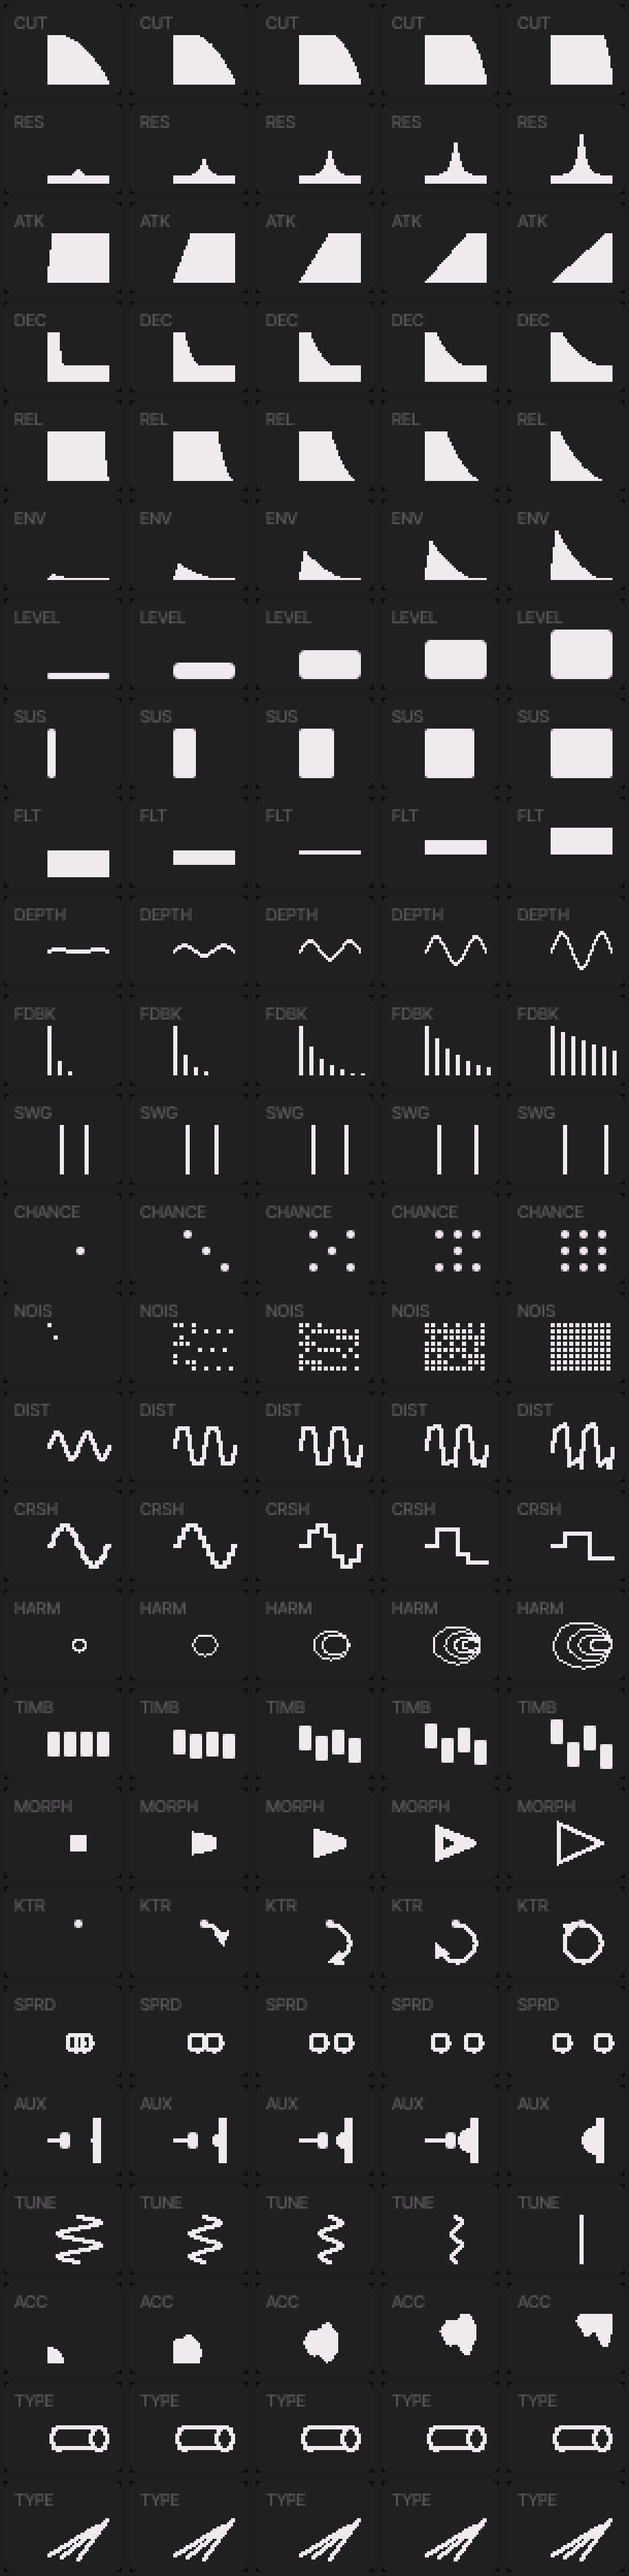
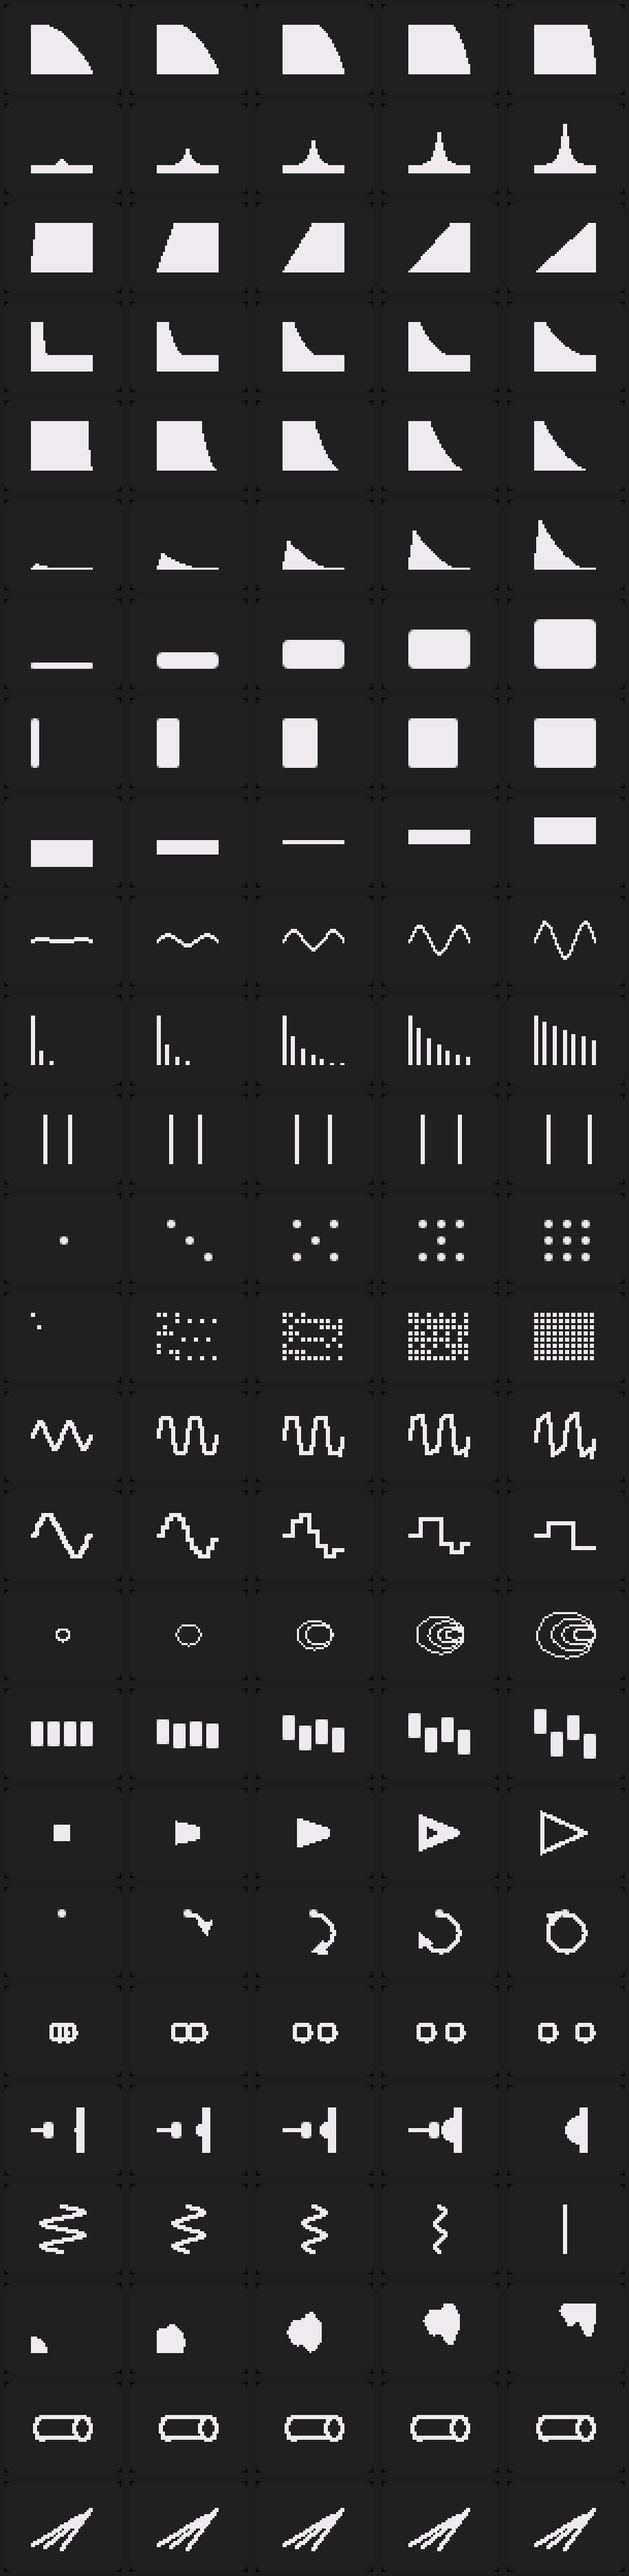
Cards: a shape's card without its label, the shape in the middle
A card that shows a shape (ui_cards.c card_sym) draws it alone in the
card's middle (x 13 .. 42, y 10 .. 33): no label, no number. The rows under
EDIT's cards name it, the header's message while the knob turns. A text
card (TYPE BP, WAVE SAW, VCE LEG ..) keeps its label. MOTION driving a
shape's card: a THEME dot at the label's place (the label said it before).

Tests: ui_test.c "Alt 2: a shape's card without its label .." (seen red with
the label drawn back in). docs/ui-alt2/symbols.png redrawn.

Claude-Session: https://claude.ai/code/session_01Ca5cWtHB3vzDLnDuY3QcNp

diff --git a/firmware/src/ui_draw.c b/firmware/src/ui_draw.c
@@ -547,7 +547,7 @@ static void draw_column_tall(uint32_t c, const char *label, const char *val, con
 /* one card = one knob, redrawn only when it changed. M-Vave-OP1 (the Alt 2 design): the LABEL (8 px, DIM) at the
  * top left, under it the value (M, or S when M is too wide: engine names, long ENUMs) and its unit (8 px, DIM) on its
  * baseline; or, for a parameter with a shape (ui_cards.c card_sym: levels, envelope times, cutoff, waves ..), the
- * shape of the value at the right instead of the number. No gauge. The knob just turned (hot): a 1 px MID edge round
+ * shape of the value alone in the card's middle, no label and no number (JAN3000). No gauge. The knob just turned (hot): a 1 px MID edge round
  * the card and the label in TEXT. ratio: 0..1000, the value's place on its range (the shape), -1 = none. icon: ICON_*
  * (icons.c), ICON_AUTO = by label: only a WAVE's (its shape) is drawn. A parameter MOTION drives (card_mot_next): the
  * label in the theme colour. vc: the value's colour (T_THEME, T_DIM inactive; T_ACCENT, the knob just turned, as
@@ -637,6 +637,15 @@ static void draw_column(uint32_t c, const char *label, const char *val, const ch
             cv_rrect(0, 0, COL_W, COL_H, 4, T_SURF, T_BG);
     }
     if (label[0] || val[0]) {
+        if (sym != SYM_NONE) {                          /* the shape alone, in the card's middle: no label (the rows
+                                                         * under EDIT's cards and the header's message name it); MOTION
+                                                         * driving it: a THEME dot at the label's place */
+            if (mot)
+                cv_rrect(5, 5, 4, 4, 2, hot ? T_TEXT : T_THEME, T_SURF);
+            card_symbol(sym, ratio, icon, vc == T_DIM ? T_DIM : T_THEME);
+            cv_blit((uint32_t)CARD_X(c), Y_LABEL);
+            return;
+        }
         if (!strip && label[0]) {
             /* MENU > LARGE on a list / graph page or a layer (LK_LABEL): the label in M where it fits the card (its
              * capitals rows 5..15), else in 8 px as without LARGE (capitals rows 6..11) */
@@ -644,11 +653,6 @@ static void draw_column(uint32_t c, const char *label, const char *val, const ch
             if (mot)                                    /* MOTION drives it: the label says it */
                 lc = hot ? T_TEXT : T_THEME;
             cv_text_fit(lx, lf == &AF_M ? 1 : 4, lf, label, lc, T_SURF, COL_W - 2 - lx);
-        }
-        if (sym != SYM_NONE) {                          /* the shape in place of the number */
-            card_symbol(sym, ratio, icon, vc == T_DIM ? T_DIM : T_THEME);
-            cv_blit((uint32_t)CARD_X(c), Y_LABEL);
-            return;
         }
         if (kid >= 0)                                   /* "[OCT+]": the keycap (accent: it would act; DIM: it would not) */
             x = cv_keycap(5, 23, (uint32_t)kid, vc == T_ACCENT || vc == T_DIM ? vc : T_KEY, T_INK, T_SURF);

diff --git a/firmware/src/ui_cards.c b/firmware/src/ui_cards.c
@@ -3,18 +3,19 @@
 /* M-Vave-OP1, the Alt 2 design (Figma "Alt 2 - Library", section Cards): a card whose parameter has a shape shows
  * the shape instead of the number. The value's number is on the panel's rows, in the footer's hint and in the
  * header's message while the knob turns; the card says at a glance where the knob stands. A symbol lives in a
- * 30 x 24 area at the card's right (x 21 .. 50, y 15 .. 38: Figma's 19, 15 on its 55 px card, 6 px from the right
- * edge): the value's shape in the value's colour on the card's SURF, nothing behind it (no ghost of the whole range:
- * the shape alone is the value). Figma draws three variants (Low / Mid / High); the firmware draws the value itself,
- * the variants are its points at about 1/6, 1/2 and 5/6. Which shape a card takes is told by its label (card_sym),
+ * 30 x 24 area in the card's middle (x 13 .. 42, y 10 .. 33; Figma put it at the right under the label, JAN3000 took
+ * the label away: the rows under EDIT's cards name it, the header's message while it turns): the value's shape in
+ * the value's colour on the card's SURF, nothing behind it (no ghost of the whole range: the shape alone is the
+ * value); MOTION driving it, a THEME dot at the top left (draw_column). Figma draws three variants (Low / Mid /
+ * High); the firmware draws the value itself, the variants are its points at about 1/6, 1/2 and 5/6. Which shape a card takes is told by its label (card_sym),
  * as icons.c tells the icons; WAVE by the wave picked (its icon, the 24 px Fukiai glyph), VDRUM's TYPE by its
  * resonator (a tube, strings). Everything else is a text card: its value and unit as before. Included by ui_draw.c
  * (draw_column). */
-#define SYM_X 21                                        /* the symbol's area in the card */
-#define SYM_Y 15
+#define SYM_X ((COL_W - SYM_W) / 2)                     /* the symbol's area: the card's middle (x 13, y 10), no label */
+#define SYM_Y ((COL_H - SYM_H) / 2)
 #define SYM_W 30
 #define SYM_H 24
-#define SYM_CX (SYM_X + SYM_W / 2)                      /* its centre: x 36, y 27 */
+#define SYM_CX (SYM_X + SYM_W / 2)                      /* its centre: x 28, y 22 */
 #define SYM_CY (SYM_Y + SYM_H / 2)
 
 enum {

diff --git a/tests/ui_test.c b/tests/ui_test.c
@@ -3076,6 +3076,26 @@ static int test_product_ux(void)
             ok &= host_screen[(Y_LABEL + SYM_Y) * 240 + CARD_X(0) + SYM_X + 2] == swap16(T_SURF);
             if (!ok) printf("  shapes: %u pixels outside their area, %u of %u drawn\n", outside, ink, (uint32_t)NELEM(L) * 5u);
             bad += check("Alt 2: every shape alone on SURF (no ghost) and inside its area, 0 .. 100 %", ok);
+            {   /* JAN3000: a shape's card without its label, the shape in the middle; a text card keeps its label;
+                 * MOTION on a shape's card: a THEME dot at the top left */
+                uint32_t lab = 0, txt = 0;
+                ok = SYM_X == (COL_W - SYM_W) / 2 && SYM_Y == (COL_H - SYM_H) / 2;
+                ui.force = 1;
+                draw_column(0, "RES", "50", "%", T_THEME, 500, ICON_NONE);
+                for (y = 4; y < (uint32_t)SYM_Y; y++)
+                    for (x = 3; x < COL_W - 3u; x++)
+                        lab += host_screen[(Y_LABEL + y) * 240 + CARD_X(0) + x] != swap16(T_SURF);
+                ui.force = 1;
+                draw_column(0, "TYPE", "BP", "", T_THEME, 500, ICON_NONE);
+                for (y = 4; y < 12u; y++)
+                    for (x = 3; x < 30u; x++)
+                        txt += host_screen[(Y_LABEL + y) * 240 + CARD_X(0) + x] != swap16(T_SURF);
+                ui.force = 1; card_mot_next = 1;
+                draw_column(0, "RES", "50", "%", T_THEME, 500, ICON_NONE);
+                ok &= !lab && txt > 10u && host_screen[(Y_LABEL + 6) * 240 + CARD_X(0) + 6] == swap16(T_THEME);
+                bad += check("Alt 2: a shape's card without its label, the shape in the middle (a text card keeps its "
+                             "label; MOTION: a dot)", ok);
+            }
         }
         ui_power_on();
         go_title("ENV"); frame();

diff --git a/.claude/skills/fm1-firmware/references/architecture.md b/.claude/skills/fm1-firmware/references/architecture.md
@@ -228,12 +228,13 @@ in the project extras (`XTRA_V4`) and a page (`GR_KEY`: `key_knob` / `key_poll` 
   (ui_cards.c `card_sym`: levels, envelope times, cutoff, resonance, rates in Hz, glide, detune, noise, chance, swing,
   echo, pan, bipolar amounts, the oscillator waves; JAN3000's sketches: ACID's ENV, DIST / DRV / DRIVE as fuzz, CRSH
   as stairs, the Plaits engines' HARM TIMB MORPH AUX, KTR, SPRD, an engine's TUNE (a string slack .. tight; the
-  project's TUNE in cents stays a number), ACC, VDRUM's TYPE TUBE / STRNG) draws the value's shape at its right instead
-  of the number, alone on the card's SURF (no ghost of the range; PAN keeps its track). Each shape stays inside its
+  project's TUNE in cents stays a number), ACC, VDRUM's TYPE TUBE / STRNG) draws the value's shape alone in the card's
+  middle: no label, no number, nothing behind it (no ghost of the range; PAN keeps its track). MOTION on such a card:
+  a THEME dot at the label's place. Each shape stays inside its
   30 x 24 area (`SYM_*`): the 2 px pen (`sym_seg`) reaches one column and row past its points. MENU > LARGE keeps the
   numbers.
 - Panels: EDIT's rows (`graph_param_rows`) and MOD's slots (`graph_mod`) are 34 px cards on the BG, 36 apart, the
   selected one THEME with INK; FM6's chart (`graph_fm6`) fills the panel (boxes 36 x 26, or 26 x 18 for charts of more
   than two rows or four columns); ENV, LFO, ENV DEST, WHEEL, SAMPLE and FM6 carry an 8 px caption.
-- Tests: ui_test.c "Alt 2: ..." (the shapes by label, each alone on SURF inside its area, the layout and the hot edge); ui_render.c lints the FM6 chart
+- Tests: ui_test.c "Alt 2: ..." (the shapes by label, each alone on SURF inside its area, no label on a shape's card, the layout and the hot edge); ui_render.c lints the FM6 chart
   inside the canvas's height.
